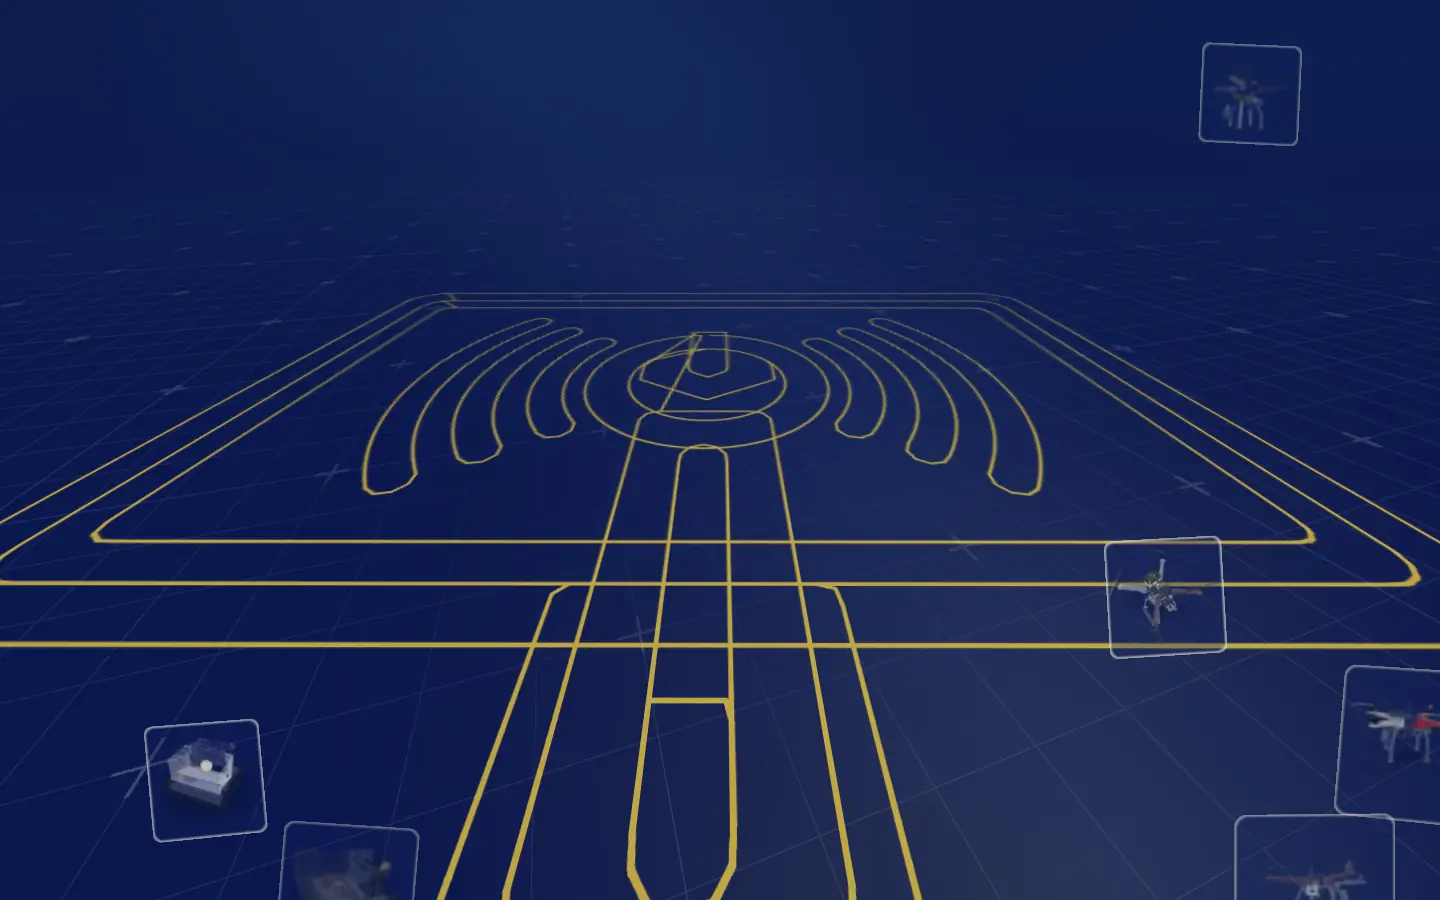
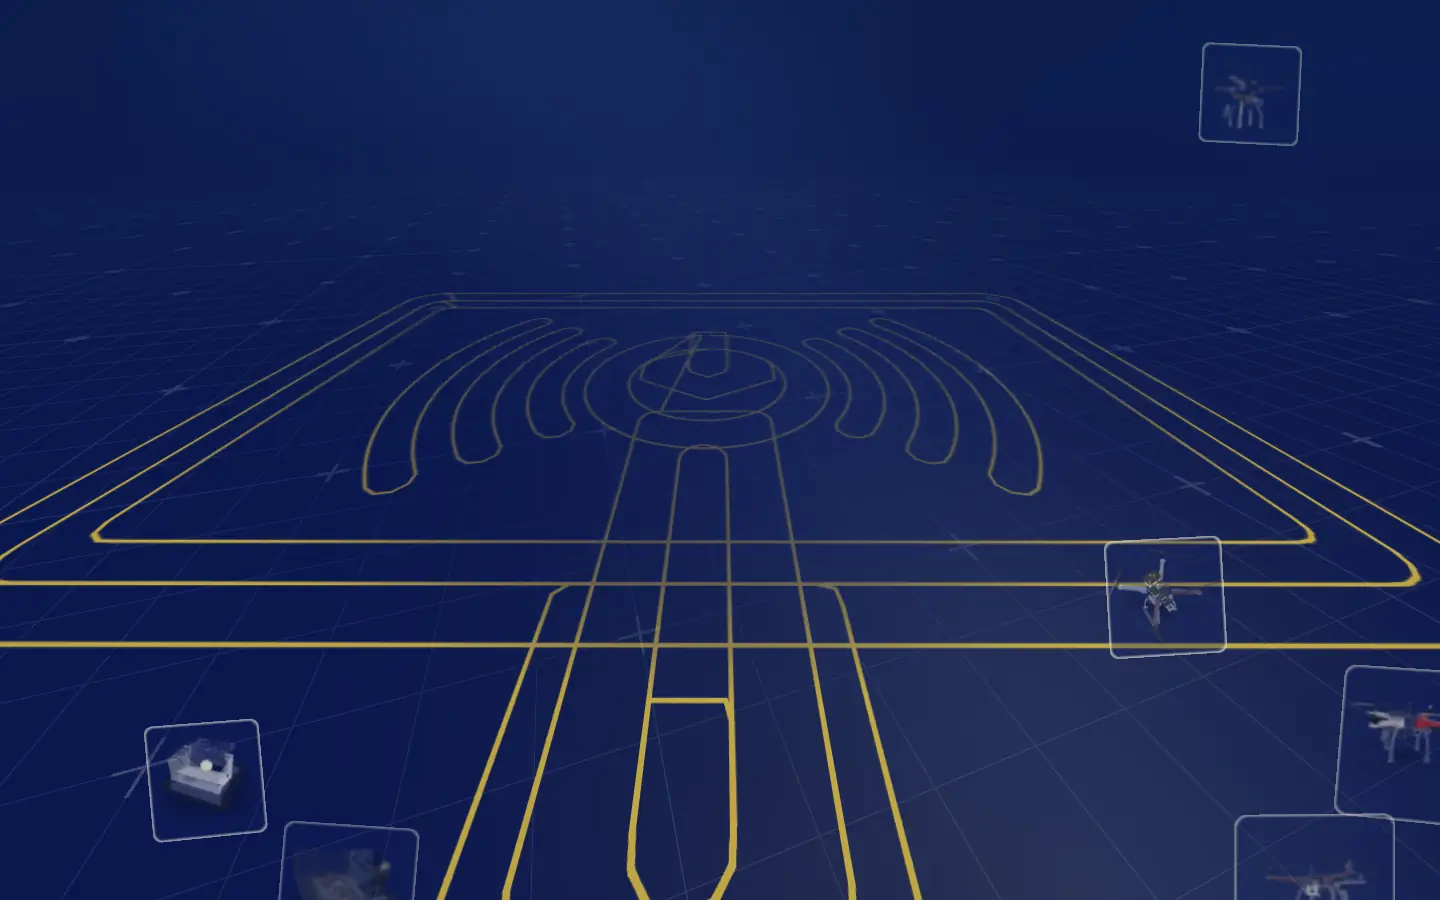
New project: Lifetime, the Windows awake-time and fleet dashboard software
/work/lifetime/ with its real screenshots (fleet overview, desktop app overview and activity, a device's page),
written from the product's facts only: v1.2 features marked as still being built, status pilot deployments, the
GitHub link and COBACOM as the deployer. Also on the Work list, the 3D wall label and the next-chapter loop.
The floor drawing now fades much further where text sits, so long write-ups stay readable over it.

diff --git a/src/text/work.ts b/src/text/work.ts
@@ -8,7 +8,7 @@
 export const workPage = {
 	/** Browser tab title and the description Google shows. */
 	seoTitle: "Work | JPL Innovation",
-	seoDescription: "JPL Innovation's projects: the F450 4G drone, FRC Team 10951, the mini Arduino drone and cybersecurity.",
+	seoDescription: "JPL Innovation's projects: the F450 4G drone, FRC Team 10951, the mini Arduino drone, cybersecurity and Lifetime.",
 	title: "Work",
 	lede: "What we've built, what's on the bench now, and what's coming next.",
 };
@@ -16,7 +16,7 @@ export const workPage = {
 /** The Work page's 3D project wall (the words around it; the projects come from src/text/projects/*.md). */
 export const workWall = {
 	/** Read by screen readers for the 3D view. */
-	canvasLabel: "A curved wall of project panels in 3D: the F450 4G drone, FIRST Robotics, the mini Arduino drone and cybersecurity.",
+	canvasLabel: "A curved wall of project panels in 3D: the F450 4G drone, FIRST Robotics, the mini Arduino drone, cybersecurity and Lifetime.",
 	rulerLabel: "Projects on the wall",
 	hint: "Scroll to move along the wall · click a panel to open it",
 	/** Heading over the plain list of projects under the wall (the same projects, as ordinary links). */

diff --git a/src/scripts/blueprint.ts b/src/scripts/blueprint.ts
@@ -114,7 +114,8 @@ void main() {
 				float drawn = smoothstep(uReveal + 0.002, uReveal - 0.002, order);
 				float fresh = exp(-max(uReveal - order, 0.0) * 70.0) * drawn * step(0.001, uReveal);
 				vec3 accent = mix(vec3(0.184, 0.486, 0.902), vec3(0.961, 0.816, 0.259), uNight);
-				float near = exp(-dist * 0.009) * mix(0.75, 1.0, smoothstep(0.2, 0.9, length(vUv * vec2(0.9, 1.0))));
+				// Faint where text sits (the middle of the screen), full strength towards the edges.
+				float near = exp(-dist * 0.009) * mix(0.28, 1.0, smoothstep(0.15, 0.85, length(vUv * vec2(0.9, 1.0))));
 				col = mix(col, ink, d.a * (1.0 - drawn) * 0.14 * near);
 				col = mix(col, accent, min(0.75, d.a * drawn * (0.7 + 0.3 * fresh) * near * 1.5));
 				col = mix(col, mix(accent, vec3(1.0), 0.5 * uNight), d.a * fresh * (0.75 + 0.25 * sin(uTime * 4.0)) * near);

diff --git a/src/lib/look/drawing.ts b/src/lib/look/drawing.ts
@@ -28,10 +28,11 @@ export function fieldFor(pathname: string): { drawing: "f450" | "mini" | "networ
 	if (path === "/work/mini-drone") return { drawing: "mini", parts: "drone" };
 	if (path === "/work/cybersecurity") return { drawing: "network", parts: "none" };
 	if (path === "/work/frc") return { drawing: "badge", parts: "robot" };
+	if (path === "/work/lifetime") return { drawing: "badge", parts: "none" };
 	return { drawing: "badge", parts: "all" };
 }
 
-export type Tile ={ x: number; y: number; z: number; size: number; spin: number };
+export type Tile = { x: number; y: number; z: number; size: number; spin: number };
 
 /**
  * Where the glass tiles float, in the field's screen space (x and y from -1 to 1 times the aspect, z its depth for

diff --git a/src/lib/look/drawing.test.ts b/src/lib/look/drawing.test.ts
@@ -43,6 +43,7 @@ test("each page draws its own subject on the floor; pages with none get the badg
 	assert.deepEqual(fieldFor("/work/mini-drone"), { drawing: "mini", parts: "drone" });
 	assert.deepEqual(fieldFor("/work/cybersecurity/"), { drawing: "network", parts: "none" });
 	assert.deepEqual(fieldFor("/work/frc/"), { drawing: "badge", parts: "robot" });
+	assert.deepEqual(fieldFor("/work/lifetime/"), { drawing: "badge", parts: "none" }, "software: the monitor badge, no hardware parts");
 	assert.deepEqual(fieldFor("/about/"), { drawing: "badge", parts: "all" });
 	assert.deepEqual(fieldFor("/members/khoa/"), { drawing: "badge", parts: "all" });
 });

diff --git a/src/text/projects/lifetime.md b/src/text/projects/lifetime.md
@@ -1,0 +1,61 @@
+---
+title: Lifetime
+img: /assets/lifetime/server.webp
+img_alt: Lifetime Server's fleet overview in the Glass style, with connected, offline and pending computers, daily awake hours and the device list
+badge: Pilot deployments
+description: |
+  Windows software that measures how long each computer is really awake, and brings every computer in a school or
+  office onto one dashboard. Open source, and deployed in Vietnam by COBACOM.
+order: 5
+---
+
+## What it is
+
+Lifetime has two parts. The **Lifetime desktop app** runs on each Windows computer and counts that computer's real awake time from inside the machine, not by guessing from network pings. **Lifetime Server** runs on one Windows server or PC, collects the data from every computer and shows them all on one dashboard.
+
+It speaks Vietnamese and English, and comes in two styles (Glass and Classic) with light and dark themes. It's open source under the GPL-3.0 licence: [the code is on GitHub](https://github.com/jpl-innovation/Lifetime). [COBACOM](https://www.cobacom.com/vi) deploys and supports it for schools and offices in Vietnam.
+
+![The Lifetime desktop app's Overview: total awake time, the current and longest sessions, and the last 14 days](/assets/lifetime/overview.webp)
+
+## Counting you can trust
+
+- Each computer counts its own awake time. If the network or the server goes down, it keeps counting and sends the data later.
+- Time when the server itself was off is shown as **Unknown**, never counted as online or offline.
+- Every computer gets a health score from 0 to 100, with the breakdown that explains it. A part with no data is Unknown, not counted as good or bad.
+
+![The desktop app's Activity page: a calendar of awake hours, daily awake hours, the lifetime total and the hour-of-day profile](/assets/lifetime/activity.webp)
+
+## One dashboard for the whole fleet
+
+- The Overview counts the computers that are Online, Offline, have no report yet, or are waiting for approval. Click any of them to see which computers they are.
+- The device list has status chips, a 24-hour online timeline, and CPU and RAM trends.
+- Each device has its own page: its hardware (CPU, RAM, disks with capacity bars, battery), an activity and health summary, and its events.
+- Alert rules, expected-online hours, maintenance windows, an incident list with acknowledge, and email alerts over secure SMTP (STARTTLS). An optional HTTPS webhook can feed chat tools through a bridge.
+- Monthly availability reports as PDF and CSV, for one computer, a group or the whole site, keeping awake time, availability and Unknown time apart.
+- Network checks for printers, routers and websites (ping, TCP port, HTTP), with nothing installed on them.
+
+![A device's page on Lifetime Server: its hardware, activity, health and events](/assets/lifetime/server-device.webp)
+
+## Safe to run
+
+- Remote Sleep, Restart, Shut down and Turn on (Wake-on-LAN), one computer at a time, and only if its owner has allowed remote power control. Every action is logged, rate-limited and limited by role.
+- Windows accounts with four roles (Admin, Operator, Auditor, Viewer), access denied by default, and a tamper-evident audit log.
+- Computers join with a one-time code, or are installed silently on many at once (GPO or Intune). New computers wait for an admin's approval.
+- Encrypted connections (TLS with certificate pinning) with certificates that renew themselves; backup, verify and restore; opt-in, staged updates for the agents; and a server that runs as a Windows service and restarts itself.
+- Light on resources: in testing, the server used about 1.8% CPU and about 61 MB of memory with 50 simulated computers.
+
+## Privacy
+
+Each computer's owner or user chooses what to share with sharing switches, and nothing beyond that is sent. Lifetime never records screens, keystrokes, browsing or file contents: only awake time, device health and hardware information. All the data stays on the customer's own server, on their own network. There is no cloud service.
+
+## Coming in version 1.2
+
+Still being built:
+
+- **Energy and cost**: kWh and money (in VND by default, with an editable price per kWh) worked out from real awake hours. Measured where a computer reports real power readings, and estimated from a typical wattage the admin sets otherwise.
+- **Left on after hours**: which computers stayed awake outside school or office hours, and how much energy and money that wasted. An optional per-group policy sends the normal Sleep command only to computers whose owner allowed it, and stops if someone is using the computer.
+- **Replacement plan**: when each battery wears out and each disk fills up, forecast from that computer's own history, or "not enough data" when there is too little.
+
+## Where it is now
+
+Pilot deployments, with testing on real customer machines in progress. The server runs on Windows Server or a Windows 10/11 PC; the computers run Windows 10/11.
